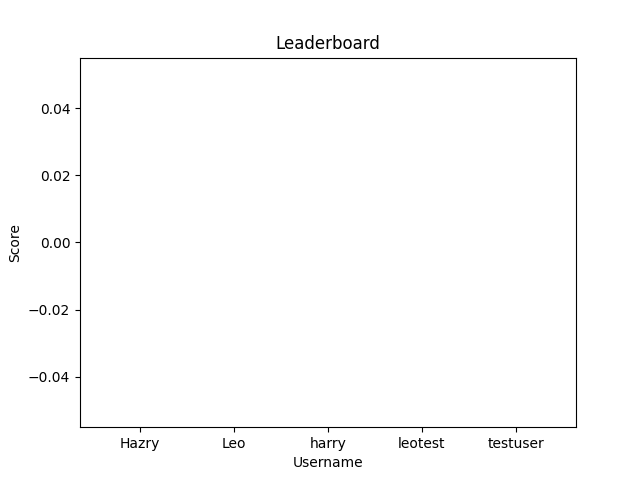
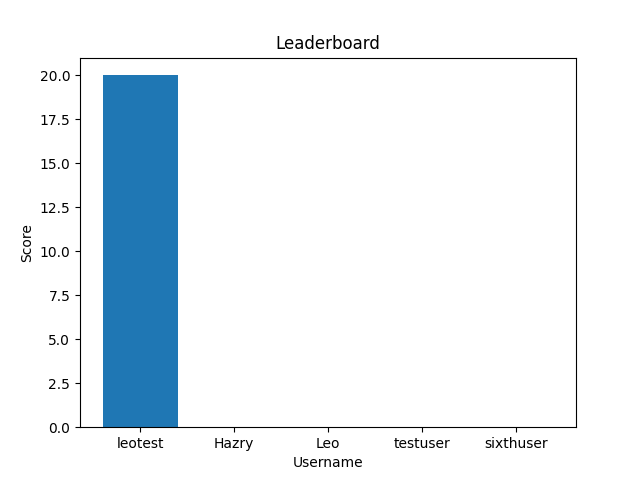
Added missions, score now applies to leaderboard

diff --git a/WebApp/templates/WebApp/missions.html b/WebApp/templates/WebApp/missions.html
@@ -1,5 +1,68 @@
 {% extends 'WebApp/game_base.html' %}
 {% load static %}
-<!DOCTYPE html>
-<html lang="en">
-    </html>
+
+{% block content %}
+<div class="container">
+    <h1>Daily Missions</h1>
+    <ul class="missions-list">
+        {% for mission in missions %}
+            <li class="mission-item">
+                <h3>{{ mission.name }}</h3>
+                <p>{{ mission.description }}</p>
+                <p>Points: {{ mission.points }}</p>
+                {% for user_mission in user_missions %}
+                    {% if user_mission.mission == mission %}
+                        <p class="mission-status">Status: {% if user_mission.completed %}Completed{% else %}Not Completed{% endif %}</p>
+                        <form class="complete-mission-form" data-mission-id="{{ mission.id }}">
+                            {% csrf_token %}
+                            <button type="submit" class="btn btn-primary">
+                                {% if user_mission.completed %}Undo{% else %}Complete{% endif %}
+                            </button>
+                        </form>
+                    {% endif %}
+                {% endfor %}
+            </li>
+        {% endfor %}
+    </ul>
+</div>
+
+<!-- Include jQuery -->
+<script src="https://code.jquery.com/jquery-3.6.0.min.js"></script>
+<script>
+    $(document).ready(function() {
+        $(".complete-mission-form").submit(function(event) {
+            event.preventDefault(); 
+
+            var form = $(this);
+            var missionId = form.data("mission-id");
+            var button = form.find("button");
+            var statusElement = form.siblings(".mission-status");
+
+            $.ajax({
+                url: "{% url 'missions' %}", 
+                type: "POST",
+                data: {
+                    mission_id: missionId,
+                    csrfmiddlewaretoken: form.find("input[name='csrfmiddlewaretoken']").val()
+                },
+                success: function(response) {
+                    if (response.status === "success") {
+                        // Update text/status:
+                        if (response.completed) {
+                            button.text("Undo");
+                            statusElement.text("Status: Completed");
+                        } else {
+                            button.text("Complete");
+                            statusElement.text("Status: Not Completed");
+                        }
+                    }
+                },
+                // Alert on error:
+                error: function() {
+                    alert("An error occurred. Please try again.");
+                }
+            });
+        });
+    });
+</script>
+{% endblock %}

diff --git a/WebApp/views.py b/WebApp/views.py
@@ -1,8 +1,11 @@
 from django.shortcuts import render, redirect, get_object_or_404
 from django.contrib.auth import login, authenticate, logout
 from django.contrib.auth.decorators import user_passes_test, login_required
+from django.http import JsonResponse
+from django.utils import timezone
 from django.contrib.auth.forms import AuthenticationForm
-from .models import User, Profile
+from django.core.management import call_command
+from .models import User, Profile, Mission, UserMission
 from .forms import UserRegistrationForm, ProfileUpdateForm
 from .leaderboard_src import generate_leaderboard_image
 from .search_src import search_for_username
@@ -102,6 +105,58 @@ def redirect_to_profile(request):
     else:
         # redirect to login if not logged in - no profile to show:
         return redirect('login')
+
+# For missions:
+@login_required
+def missions(request):
+    # Check if missions exist; if not, generate them:
+    if not Mission.objects.exists():
+        call_command('generate_missions')  # Run the generate_missions.py script (in WebApp/management/commands/)
+
+    if request.method == "POST":
+        mission_id = request.POST.get("mission_id")
+        mission = Mission.objects.get(id=mission_id)
+        today = timezone.now().date()
+
+        # Get UserMission instance:
+        user_mission, created = UserMission.objects.get_or_create(
+            user=request.user,
+            mission=mission,
+            date_completed=today
+        )
+
+        # Toggle completion status:
+        user_mission.completed = not user_mission.completed
+        user_mission.save()
+
+        # Award (and deduct, debug option) points:
+        profile = request.user.profile
+        if user_mission.completed:
+            profile.score += mission.points
+        else:
+            profile.score -= mission.points
+        profile.save()
+
+        # JSON response:
+        return JsonResponse({
+            "status": "success",
+            "completed": user_mission.completed
+        })
+
+    # Handle GET request (display missions):
+    today = timezone.now().date()
+    missions = Mission.objects.all()
+    user_missions = UserMission.objects.filter(user=request.user, date_completed=today)
+
+    # Create UserMission objects for any unstarted missions:
+    for mission in missions:
+        UserMission.objects.get_or_create(user=request.user, mission=mission, date_completed=today)
+
+    context = {
+        'missions': missions,
+        'user_missions': user_missions,
+    }
+    return render(request, 'WebApp/missions.html', context)
 
 def is_developer(user):
     return user.user_type == 'developer'

diff --git a/WebApp/models.py b/WebApp/models.py
@@ -32,4 +32,22 @@ def create_user_profile(sender, instance, created, **kwargs):
 @receiver(post_save, sender=User)
 def save_user_profile(sender, instance, **kwargs):
     instance.profile.save()
+
+# Code for missions:
+class Mission(models.Model):
+    name = models.CharField(max_length=100)
+    description = models.TextField()
+    points = models.IntegerField(default=10)
+
+    def __str__(self):
+        return self.name
+
+class UserMission(models.Model):
+    user = models.ForeignKey(User, on_delete=models.CASCADE)
+    mission = models.ForeignKey(Mission, on_delete=models.CASCADE)
+    completed = models.BooleanField(default=False)
+    date_completed = models.DateField(null=True, blank=True)
+
+    def __str__(self):
+        return f"{self.user.username} - {self.mission.name}"
         

diff --git a/WebApp/management/commands/generate_missions.py b/WebApp/management/commands/generate_missions.py
@@ -1,0 +1,17 @@
+from django.core.management.base import BaseCommand
+from ...models import Mission
+
+class Command(BaseCommand):
+    help = 'Generates daily missions'
+
+    def handle(self, *args, **kwargs):
+        missions = [
+            {"name": "Recycle!", "description": "Use one of the many recycling bins on our campus."},
+            {"name": "Visit [Location]!", "description": "Scan the QR Code at [Location]."},
+            {"name": "Visit [Location]!", "description": "Scan the QR Code at [Location]."},
+        ]
+
+        for mission_data in missions:
+            Mission.objects.get_or_create(**mission_data)
+
+        self.stdout.write(self.style.SUCCESS('Daily missions generated successfully!'))

diff --git a/WebApp/leaderboard_src.py b/WebApp/leaderboard_src.py
@@ -1,5 +1,5 @@
 
-from .models import User
+from .models import Profile
 
 # HAS TO BE RUN BEFORE import pyplot
 # or server crashes becuase django tries to run matplot lib gui in non
@@ -16,9 +16,9 @@ def generate_leaderboard_image():
 
     try:
         # get data
-        database = User.objects.values_list;
-        names = [item[0] for item in database("username")]
-        scores = [item[0] for item in database("score")]
+        profiles = Profile.objects.all().order_by('-score')  
+        names = [profile.user.username for profile in profiles]  
+        scores = [profile.score for profile in profiles]  
         
         # plot data
         plt.bar(names, scores)
